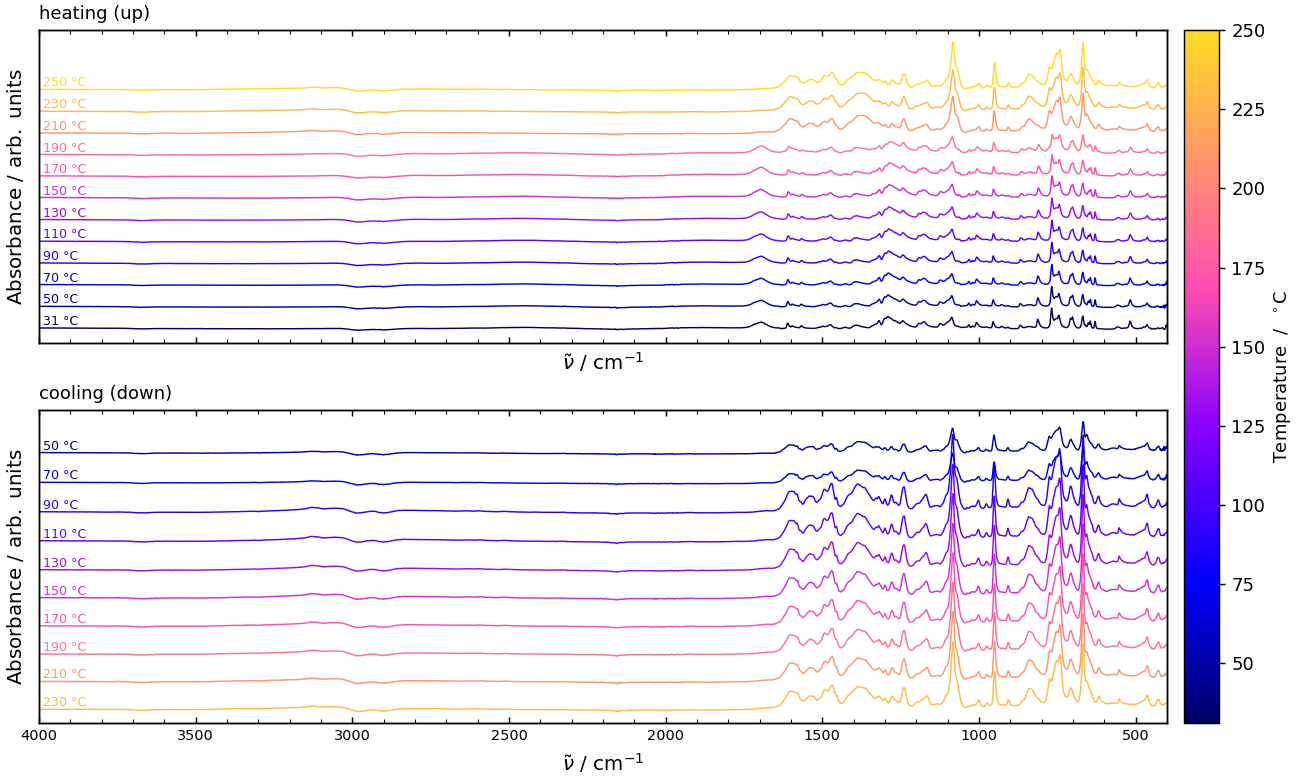
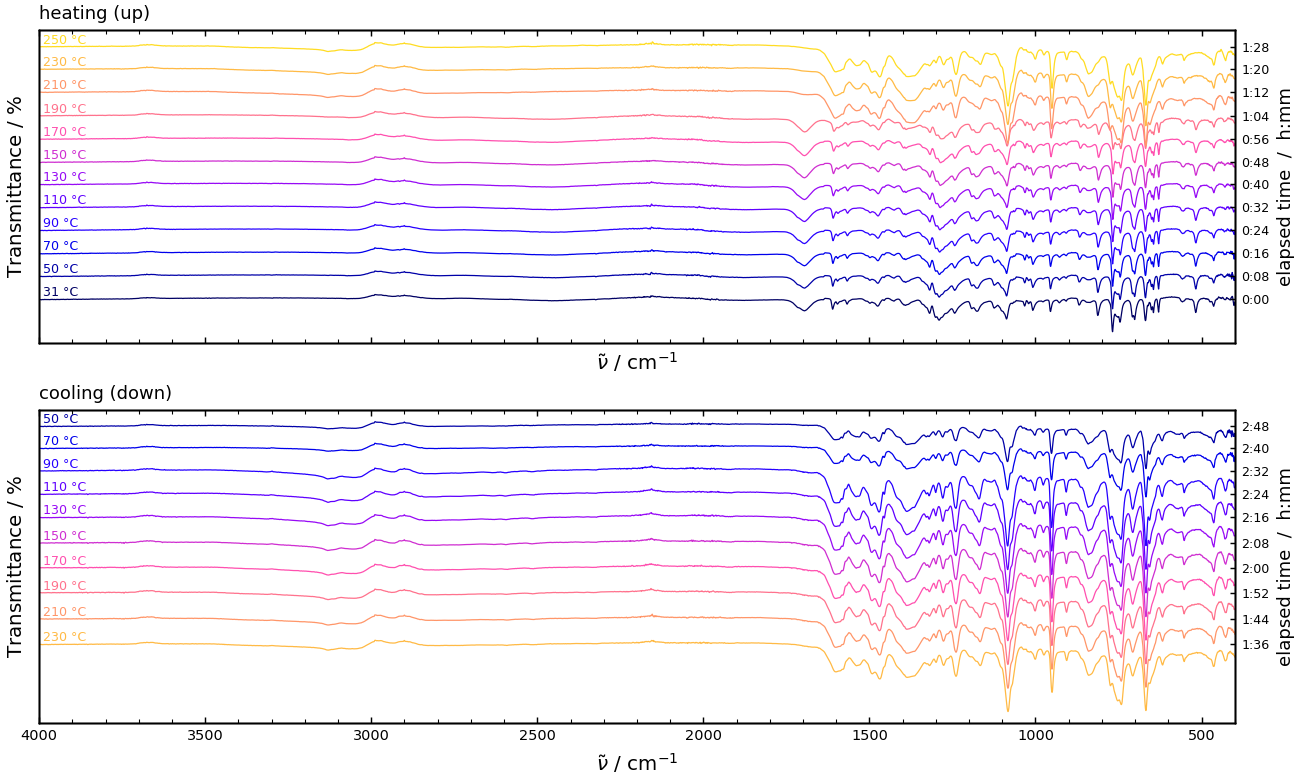
Add elapsed-time axis, transmittance default, linewidth + colorbar controls
- Right-hand time axis (stack/updown): elapsed h:mm per curve, read from the
  OMNIC .SPA collection timestamp (uint32 secs since 1899-12-31 at byte 296).
  For timestamp-less inputs (CSV), use --scan-interval or an interactive
  prompt; disable with --no-time-axis. EOF/non-interactive falls back to skip.
- Colour bar off by default; re-enable with --colorbar.
- Default display unit is now Transmittance (--unit, still A available).
- New --linewidth/--lw (default 0.7) and a tighter default auto-offset.
- Docs + screenshots regenerated for the new defaults.

diff --git a/plot_vt_ir.py b/plot_vt_ir.py
@@ -32,8 +32,13 @@ matters because a bare CSV does not record which one it is:
                             baseline at the bottom (peaks up) -> Absorbance;
                             baseline at the top (dips down)   -> Transmittance.
 
-The desired *display* unit is set with ``--unit {A,T}``; absorbance and
-transmittance are interconverted as needed.
+The desired *display* unit is set with ``--unit {A,T}`` (default T); absorbance
+and transmittance are interconverted as needed.
+
+In stack / updown modes the left edge labels each curve with its temperature and
+the right axis shows its elapsed time -- read from the SPA collection timestamp,
+or from ``--scan-interval`` (asked for at the prompt) when the files carry none
+(e.g. CSV). The temperature colour bar is off by default (``--colorbar`` adds it).
 
 Usage examples:
 
@@ -53,6 +58,7 @@ import re
 import struct
 import sys
 from dataclasses import dataclass
+from datetime import datetime, timedelta
 from pathlib import Path
 from typing import Dict, List, Optional, Sequence, Tuple
 
@@ -83,6 +89,10 @@ NAME_RE = re.compile(
 )
 
 SUPPORTED_EXTS = (".csv", ".spa", ".jdx", ".dx", ".jcm", ".txt")
+
+# OMNIC stores the collection time at byte 296 as a uint32 = seconds since this
+# epoch (UTC). Used to build the optional time axis.
+SPA_EPOCH = datetime(1899, 12, 31)
 
 # OMNIC SPA y data-type code -> internal unit token (per spectrochempy).
 OMNIC_YCODE: Dict[int, str] = {
@@ -130,6 +140,8 @@ class Spectrum:
     index: Optional[int]      # chronological NN_ prefix, if present
     unit: str = "A"           # internal unit token; see UNIT_LABEL
     unit_source: str = ""     # how the unit was decided (for the report)
+    timestamp: Optional[datetime] = None  # collection time (SPA header), if any
+    elapsed_min: Optional[float] = None   # minutes from run start (for time axis)
 
     @property
     def order_key(self) -> Tuple[int, float]:
@@ -139,9 +151,19 @@ class Spectrum:
 
 
 # --------------------------------------------------------------------------- #
-# Readers -- each returns (x, y, native_unit_or_None)
+# Readers -- each returns (x, y, native_unit_or_None, timestamp_or_None)
 # --------------------------------------------------------------------------- #
-def read_csv(path: Path) -> Tuple[np.ndarray, np.ndarray, Optional[str]]:
+def read_spa_timestamp(raw: bytes) -> Optional[datetime]:
+    """Collection time from an OMNIC SPA header: uint32 seconds since 1899-12-31
+    (UTC) at byte 296. Returns None if the value isn't a plausible date."""
+    try:
+        ts = SPA_EPOCH + timedelta(seconds=struct.unpack_from("<I", raw, 296)[0])
+    except Exception:  # noqa: BLE001
+        return None
+    return ts if 2000 <= ts.year <= 2100 else None
+
+
+def read_csv(path: Path) -> Tuple[np.ndarray, np.ndarray, Optional[str], Optional[datetime]]:
     """Two-column (wavenumber, intensity) text. Auto-detects the ``;`` / ``,`` /
     whitespace delimiter and European (comma) decimals, and skips any
     non-numeric header lines. A bare CSV carries no unit information."""
@@ -178,10 +200,10 @@ def read_csv(path: Path) -> Tuple[np.ndarray, np.ndarray, Optional[str]]:
         raise ValueError("no numeric rows found")
 
     arr = np.array([[c.replace(",", ".") for c in r] for r in rows], dtype=float)
-    return arr[:, 0], arr[:, 1], None
+    return arr[:, 0], arr[:, 1], None, None
 
 
-def read_spa(path: Path) -> Tuple[np.ndarray, np.ndarray, Optional[str]]:
+def read_spa(path: Path) -> Tuple[np.ndarray, np.ndarray, Optional[str], Optional[datetime]]:
     """Thermo OMNIC ``.SPA`` binary. Walks the section table to find the
     spectral-header block (key 2: point count + first/last wavenumber + y
     data-type code) and the intensity block (key 3: float32 values).
@@ -218,10 +240,10 @@ def read_spa(path: Path) -> Tuple[np.ndarray, np.ndarray, Optional[str]]:
     y = np.frombuffer(raw, dtype="<f4", count=data_size // 4, offset=data_off).astype(float)
     x = np.linspace(first_x, last_x, len(y))
     unit = OMNIC_YCODE.get(ycode) if ycode is not None else None
-    return x, y, unit
+    return x, y, unit, read_spa_timestamp(raw)
 
 
-def read_jcampdx(path: Path) -> Tuple[np.ndarray, np.ndarray, Optional[str]]:
+def read_jcampdx(path: Path) -> Tuple[np.ndarray, np.ndarray, Optional[str], Optional[datetime]]:
     """JCAMP-DX reader (handles the common ``(X++(Y..Y))`` tabular form).
     Reads the explicit x grid from FIRST/LAST/DELTAX/NPOINTS and the y values
     from the data table, applying the X/Y scaling factors."""
@@ -263,10 +285,10 @@ def read_jcampdx(path: Path) -> Tuple[np.ndarray, np.ndarray, Optional[str]]:
         unit = "A"
     elif "trans" in yunits:
         unit = "T"
-    return x, y, unit
+    return x, y, unit, None
 
 
-def read_xy(path: Path) -> Tuple[np.ndarray, np.ndarray, Optional[str]]:
+def read_xy(path: Path) -> Tuple[np.ndarray, np.ndarray, Optional[str], Optional[datetime]]:
     ext = path.suffix.lower()
     if ext == ".spa":
         return read_spa(path)
@@ -345,7 +367,7 @@ def load_directory(folder: Path, select: str,
     for i, p in enumerate(chosen):
         meta = classify(p)
         try:
-            x, y, native_unit = read_xy(p)
+            x, y, native_unit, ts = read_xy(p)
         except Exception as e:  # noqa: BLE001 -- one bad file shouldn't abort
             print(f"[warn] skipping {p.name}: {e}", file=sys.stderr)
             continue
@@ -355,7 +377,8 @@ def load_directory(folder: Path, select: str,
         if overrides is not None:
             override = (overrides[0] if len(overrides) == 1 else overrides[i]).upper()
         unit, source = resolve_unit(meta, native_unit, y, override)
-        out.append(Spectrum(path=p, x=x, y=y, unit=unit, unit_source=source, **meta))
+        out.append(Spectrum(path=p, x=x, y=y, unit=unit, unit_source=source,
+                            timestamp=ts, **meta))
     return out
 
 
@@ -391,10 +414,10 @@ def normalize(spectra: Sequence[Spectrum], mode: str) -> None:
 
 
 def auto_offset(spectra: Sequence[Spectrum]) -> float:
-    """A fixed offset just under one typical spectrum's amplitude, so adjacent
-    traces separate with a little overlap."""
+    """A fixed offset a bit under one typical spectrum's amplitude, so adjacent
+    traces sit close with a little overlap."""
     amps = [float(np.percentile(s.y, 99) - np.percentile(s.y, 1)) for s in spectra]
-    return 0.9 * (float(np.median(amps)) if amps else 1.0)
+    return 0.55 * (float(np.median(amps)) if amps else 1.0)
 
 
 # --------------------------------------------------------------------------- #
@@ -459,22 +482,79 @@ def add_mol_image(ax, smiles: str, loc=(0.04, 0.96), zoom: float = 0.32) -> None
     ax.add_artist(box)
 
 
+def format_elapsed(minutes: float) -> str:
+    """Elapsed minutes -> 'h:mm'."""
+    m = int(round(minutes))
+    return f"{m // 60}:{m % 60:02d}"
+
+
+def resolve_times(spectra: List[Spectrum], args) -> bool:
+    """Populate ``s.elapsed_min`` (minutes from the first scan) for the time
+    axis and report whether one should be drawn. Prefers SPA header timestamps;
+    otherwise falls back to a uniform ``--scan-interval`` (asked for at the
+    prompt when running interactively)."""
+    if args.no_time_axis or args.mode == "overlay":
+        return False
+    order = sorted(spectra, key=lambda s: s.order_key)
+    if order and all(s.timestamp is not None for s in order):
+        t0 = min(s.timestamp for s in order)
+        for s in order:
+            s.elapsed_min = (s.timestamp - t0).total_seconds() / 60.0
+        return True
+    interval = args.scan_interval
+    if interval is None and sys.stdin.isatty():
+        sys.stderr.write("No timestamps in these files. Minutes between scans "
+                         "for the time axis (blank = skip): ")
+        sys.stderr.flush()
+        try:
+            resp = input().strip().replace(",", ".")
+        except (EOFError, KeyboardInterrupt):
+            resp = ""  # non-interactive despite isatty(), or user bailed -> skip
+        if resp:
+            try:
+                interval = float(resp)
+            except ValueError:
+                print("[warn] not a number; skipping the time axis.", file=sys.stderr)
+    if interval:
+        for i, s in enumerate(order):
+            s.elapsed_min = i * interval
+        return True
+    return False
+
+
 def draw_panel(ax, spectra: List[Spectrum], cmap, norm, offset: float,
                label_curves: bool, unit: str, xlim: Tuple[float, float],
-               tick_step: Optional[float], hide_yticks: bool) -> None:
+               tick_step: Optional[float], hide_yticks: bool,
+               linewidth: float, show_time: bool) -> None:
     spectra = sorted(spectra, key=lambda s: s.order_key)
     hi = max(xlim)
+    span = max(xlim) - min(xlim)
+    time_ticks: List[float] = []
+    time_labels: List[str] = []
     for i, s in enumerate(spectra):
         off = i * offset
         color = cmap(norm(s.temperature))
-        ax.plot(s.x, s.y + off, color=color, lw=0.8)
+        ax.plot(s.x, s.y + off, color=color, lw=linewidth)
+        tail = s.x >= hi - 0.06 * span                  # flat high-wavenumber end
+        base = float(np.mean(s.y[tail])) if tail.any() else float(s.y[-1])
+        ypos = off + base
         if label_curves and offset:
-            tail = s.x >= hi - 0.06 * (max(xlim) - min(xlim))  # flat high-nu end
-            base = float(np.mean(s.y[tail])) if tail.any() else float(s.y[-1])
-            ax.text(hi, off + base, f" {s.temperature:g} °C", color=color,
+            ax.text(hi, ypos, f" {s.temperature:g} °C", color=color,
                     fontsize=7, ha="left", va="bottom")
+        if show_time and s.elapsed_min is not None:
+            time_ticks.append(ypos)
+            time_labels.append(format_elapsed(s.elapsed_min))
     style_axis(ax, unit, xlim, hide_yticks=hide_yticks, tick_step=tick_step)
     ax.margins(y=0.04)
+    ax.autoscale_view()
+
+    if show_time and time_ticks:
+        axr = ax.twinx()                                # right-hand time axis
+        axr.set_ylim(ax.get_ylim())
+        axr.set_yticks(time_ticks)
+        axr.set_yticklabels(time_labels, fontsize=7)
+        axr.tick_params(axis="y", which="both", direction="in", length=3)
+        axr.set_ylabel(r"elapsed time  /  h:mm", size=10)
 
 
 def build_figure(spectra: List[Spectrum], args) -> "plt.Figure":
@@ -482,6 +562,7 @@ def build_figure(spectra: List[Spectrum], args) -> "plt.Figure":
     for s in spectra:  # convert to the requested display unit where possible
         s.y, s.unit = convert_unit(s.y, s.unit, unit)
     normalize(spectra, args.norm)
+    show_time = resolve_times(spectra, args)
 
     xlim = tuple(args.xlim) if args.xlim else (
         max(float(s.x.max()) for s in spectra),
@@ -502,7 +583,8 @@ def build_figure(spectra: List[Spectrum], args) -> "plt.Figure":
         offset = args.offset if args.offset is not None else auto_offset(spectra)
         for ax, (key, grp) in zip(axes, groups.items()):
             draw_panel(ax, grp, cmap, norm, offset, label_curves=True, unit=unit,
-                       xlim=xlim, tick_step=args.tick_step, hide_yticks=True)
+                       xlim=xlim, tick_step=args.tick_step, hide_yticks=True,
+                       linewidth=args.linewidth, show_time=show_time)
             ax.set_title(DIRECTION_LABEL.get(key, key), fontsize=10, loc="left")
     else:
         sel = spectra
@@ -516,11 +598,13 @@ def build_figure(spectra: List[Spectrum], args) -> "plt.Figure":
         else:  # stack
             offset = args.offset if args.offset is not None else auto_offset(sel)
         draw_panel(ax, sel, cmap, norm, offset, label_curves=(args.mode == "stack"),
-                   unit=unit, xlim=xlim, tick_step=args.tick_step, hide_yticks=hide_y)
+                   unit=unit, xlim=xlim, tick_step=args.tick_step, hide_yticks=hide_y,
+                   linewidth=args.linewidth, show_time=show_time)
 
-    sm = ScalarMappable(norm=norm, cmap=cmap)
-    cbar = fig.colorbar(sm, ax=list(axes), pad=0.015, fraction=0.045)
-    cbar.set_label(r"Temperature  /  $^\circ$C", size=10)
+    if args.colorbar:
+        sm = ScalarMappable(norm=norm, cmap=cmap)
+        cbar = fig.colorbar(sm, ax=list(axes), pad=0.015, fraction=0.045)
+        cbar.set_label(r"Temperature  /  $^\circ$C", size=10)
 
     if args.smiles:
         add_mol_image(axes[0], args.smiles)
@@ -566,7 +650,7 @@ def parse_args(argv: Optional[List[str]] = None) -> argparse.Namespace:
     p.add_argument("--mode", choices=("overlay", "stack", "updown"), default="stack",
                    help="overlay (no offset), stack (fixed offset), or "
                         "updown (heating/cooling panels).")
-    p.add_argument("--unit", choices=("A", "T"), default="A",
+    p.add_argument("--unit", choices=("A", "T"), default="T",
                    help="Display unit: A=absorbance, T=transmittance.")
     p.add_argument("--input-units", default=None,
                    help="Override detected input unit(s): a single token "
@@ -578,6 +662,16 @@ def parse_args(argv: Optional[List[str]] = None) -> argparse.Namespace:
                    help="Scan direction filter (overlay/stack modes only).")
     p.add_argument("--offset", type=float, default=None,
                    help="Fixed vertical offset for stack/updown (default: auto).")
+    p.add_argument("--linewidth", "--lw", type=float, default=0.7,
+                   help="Spectrum line width.")
+    p.add_argument("--colorbar", action="store_true",
+                   help="Add the temperature colour bar (off by default).")
+    p.add_argument("--no-time-axis", action="store_true",
+                   help="Do not draw the right-hand elapsed-time axis.")
+    p.add_argument("--scan-interval", type=float, default=None,
+                   metavar="MIN", help="Minutes between scans, used for the time "
+                        "axis when the files carry no timestamp (e.g. CSV). If "
+                        "omitted and needed, you'll be prompted.")
     p.add_argument("--norm", choices=("none", "individual", "global"), default="none",
                    help="Normalize intensities before plotting.")
     p.add_argument("--cmap", default="gnuplot2", help="Matplotlib colormap (by T).")

diff --git a/README.md b/README.md
@@ -23,8 +23,10 @@ temperature and scan direction are read straight from the filenames.
   <img src="docs/updown.png" width="49%" alt="up/down mode">
 </p>
 
-Spectra are coloured by temperature (a shared colour bar), so the same
-temperature is the same colour across both `updown` panels.
+Every curve is coloured by temperature, so the same temperature is the same
+colour across both `updown` panels. In `stack`/`updown` the **left edge labels
+each curve with its temperature** and the **right axis with its elapsed time**
+(see below); add `--colorbar` if you also want a temperature scale bar.
 
 ## Quick start
 
@@ -38,10 +40,11 @@ name anonymised) as a waterfall. A few more:
 
 ```
 python plot_vt_ir.py examples --mode updown          # heating vs cooling
-python plot_vt_ir.py examples --mode overlay --unit T # overlaid, as %transmittance
-python plot_vt_ir.py examples/omnic-spa --select bg   # read .SPA files directly
-python plot_vt_ir.py examples --list                  # just report what it found
-python plot_vt_ir.py examples --silent --ext png      # save examples.png, no window
+python plot_vt_ir.py examples --unit A               # absorbance (default is %T)
+python plot_vt_ir.py examples --scan-interval 8      # time axis: 8 min between scans
+python plot_vt_ir.py examples/omnic-spa --select bg  # read .SPA directly
+python plot_vt_ir.py examples --list                 # just report what it found
+python plot_vt_ir.py examples --silent --ext png     # save examples.png, no window
 ```
 
 Run with no folder argument to plot the current directory.
@@ -80,8 +83,21 @@ the plotter resolves it **hierarchically** — first source that knows, wins:
    **bottom** of the range with peaks pointing up → Absorbance; baseline at the
    **top** with dips pointing down → Transmittance.
 
-The *display* unit is independent: `--unit A` (default) or `--unit T`, with
+The *display* unit is independent: `--unit T` (default) or `--unit A`, with
 absorbance ↔ transmittance converted as needed.
+
+## The time axis
+
+In `stack` / `updown` mode the right-hand axis shows **when each spectrum was
+collected** (elapsed `h:mm` from the first scan). The time comes from:
+
+1. the **`.SPA` collection timestamp** (stored in the header) — automatic; or
+2. **`--scan-interval MIN`** — assume a uniform gap between scans, for files with
+   no timestamp (e.g. CSV). If it's needed and you didn't pass it, you're
+   prompted for it (blank = skip the time axis).
+
+Disable it entirely with `--no-time-axis`. (The example above cools overnight, so
+the final 40 °C scan honestly reads ~18 h — the axis reflects the real gaps.)
 
 ## Command reference
 
@@ -89,11 +105,15 @@ absorbance ↔ transmittance converted as needed.
 | --- | --- | --- |
 | `directory` | `.` | folder of spectra to plot |
 | `--mode {overlay,stack,updown}` | `stack` | display mode (see above) |
-| `--unit {A,T}` | `A` | display as Absorbance or %Transmittance |
+| `--unit {A,T}` | `T` | display as %Transmittance or Absorbance |
 | `--input-units` | auto | override the input unit (one token, or one per file) |
 | `--select {sample,bg,all}` | `sample` | which spectra to plot |
 | `--direction {both,up,down}` | `both` | scan-direction filter (overlay/stack) |
 | `--offset` | auto | fixed vertical offset for stack/updown |
+| `--linewidth` / `--lw` | `0.7` | spectrum line width |
+| `--colorbar` | off | add a temperature colour bar |
+| `--scan-interval MIN` | – | minutes between scans, for the time axis when files lack timestamps |
+| `--no-time-axis` | – | drop the right-hand elapsed-time axis |
 | `--norm {none,individual,global}` | `none` | normalise intensities |
 | `--cmap` | `gnuplot2` | matplotlib colormap (mapped to temperature) |
 | `--xlim HIGH LOW` | from data | wavenumber limits, e.g. `4000 400` |
@@ -163,7 +183,10 @@ count, first/last wavenumber, and the y data-type code at byte +12) and key `3`
 (the `float32` intensity array). The wavenumber axis is reconstructed as a linear
 ramp from first to last. The y data-type code is mapped to a unit the same way
 [spectrochempy](https://www.spectrochempy.fr/) does it (17 = absorbance,
-16 = %transmittance, 15 = single beam, 20 = Kubelka–Munk, …).
+16 = %transmittance, 15 = single beam, 20 = Kubelka–Munk, …). The **collection
+time** sits at byte 296 as a `uint32` of seconds since 1899-12-31 (UTC); it feeds
+the elapsed-time axis (differences are timezone-independent, so no conversion is
+needed).
 
 **The CSV unit heuristic** is deliberately scale-free, so it works whether
 transmittance is stored as a fraction (~1.0 baseline) or a percentage (~100
@@ -202,8 +225,9 @@ tool here. The user-visible changes:
   units → background convention → CSV heuristic → manual override);
 - recognition of the file-naming convention (temperature, scan direction,
   background vs sample);
-- temperature colour bar, per-curve labels, and assorted bug fixes in the
-  normalisation helpers.
+- per-curve temperature labels, an **elapsed-time axis** read from the SPA
+  collection timestamps (or a manual scan interval), an optional temperature
+  colour bar, and assorted bug fixes in the normalisation helpers.
 
 The plotting *style* (inverted wavenumber axis, mirrored top ticks, truncated
 `gnuplot2` temperature colouring, the optional SMILES structure overlay) is